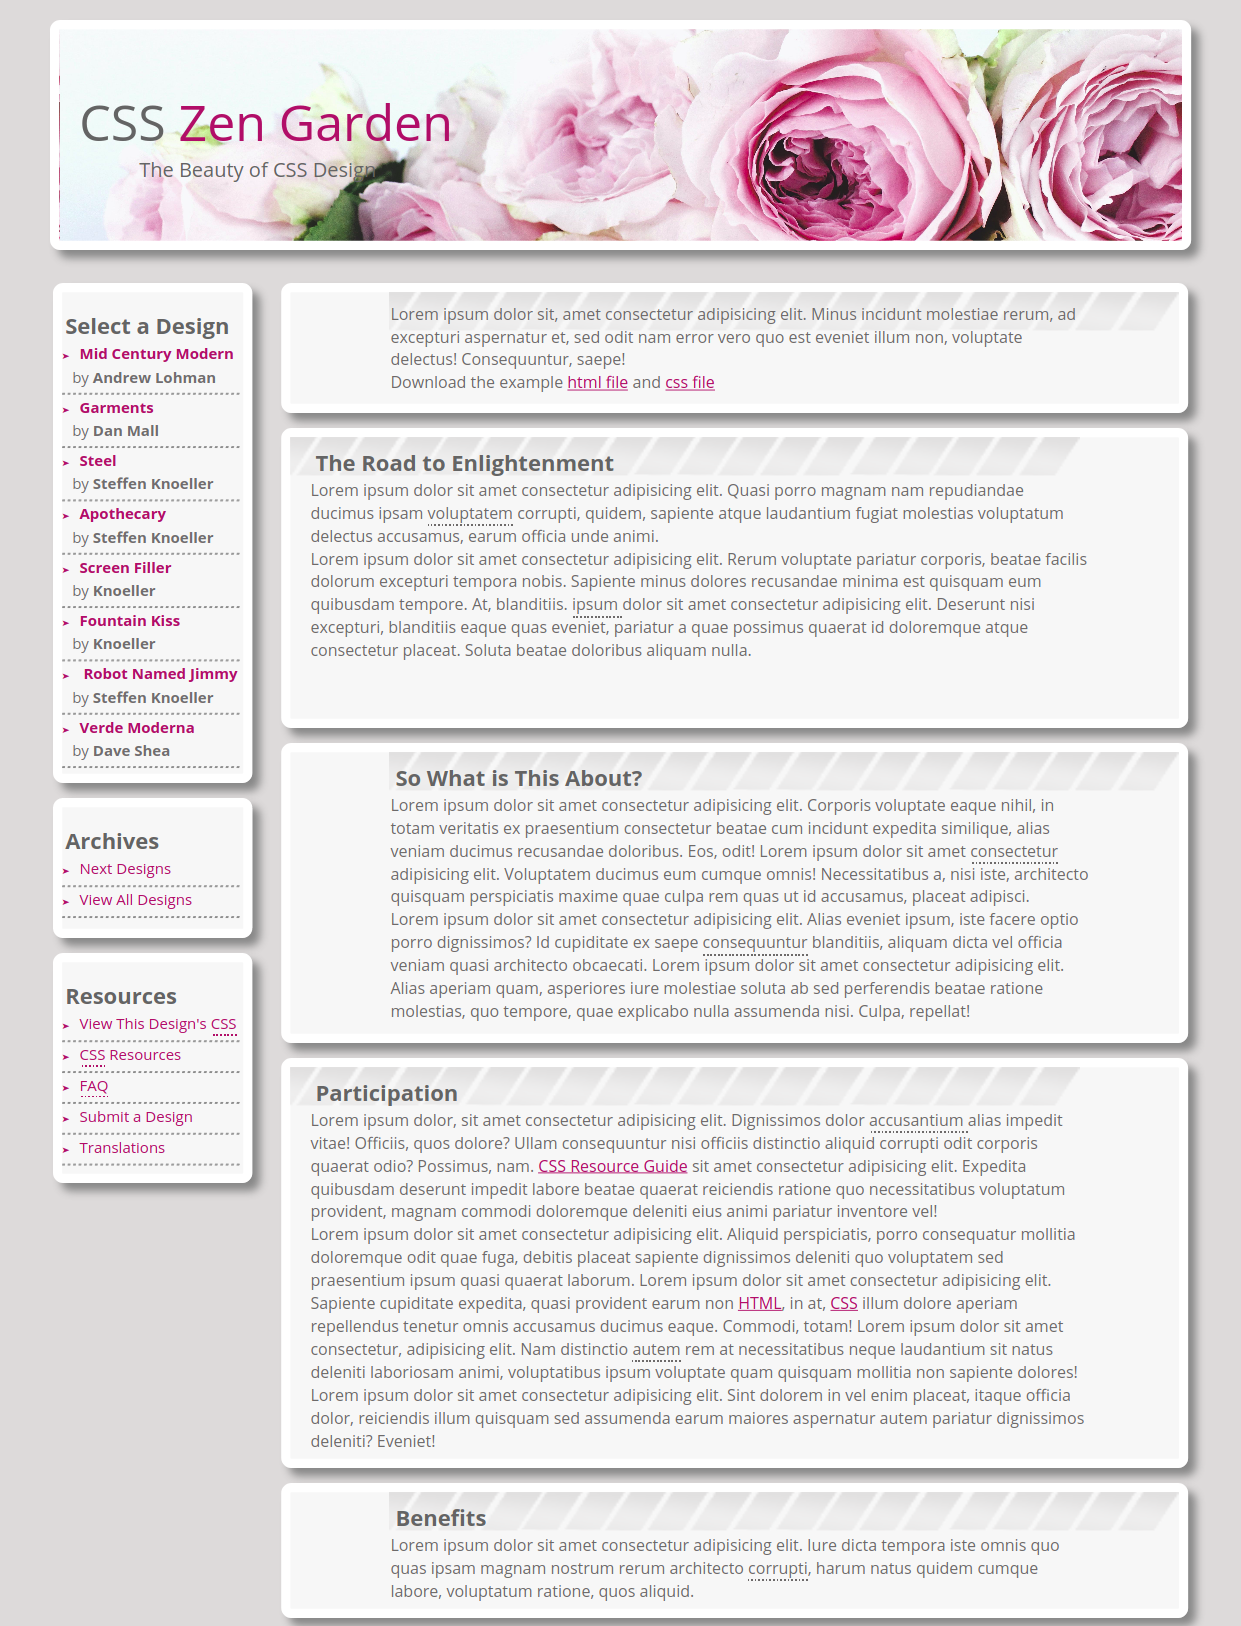
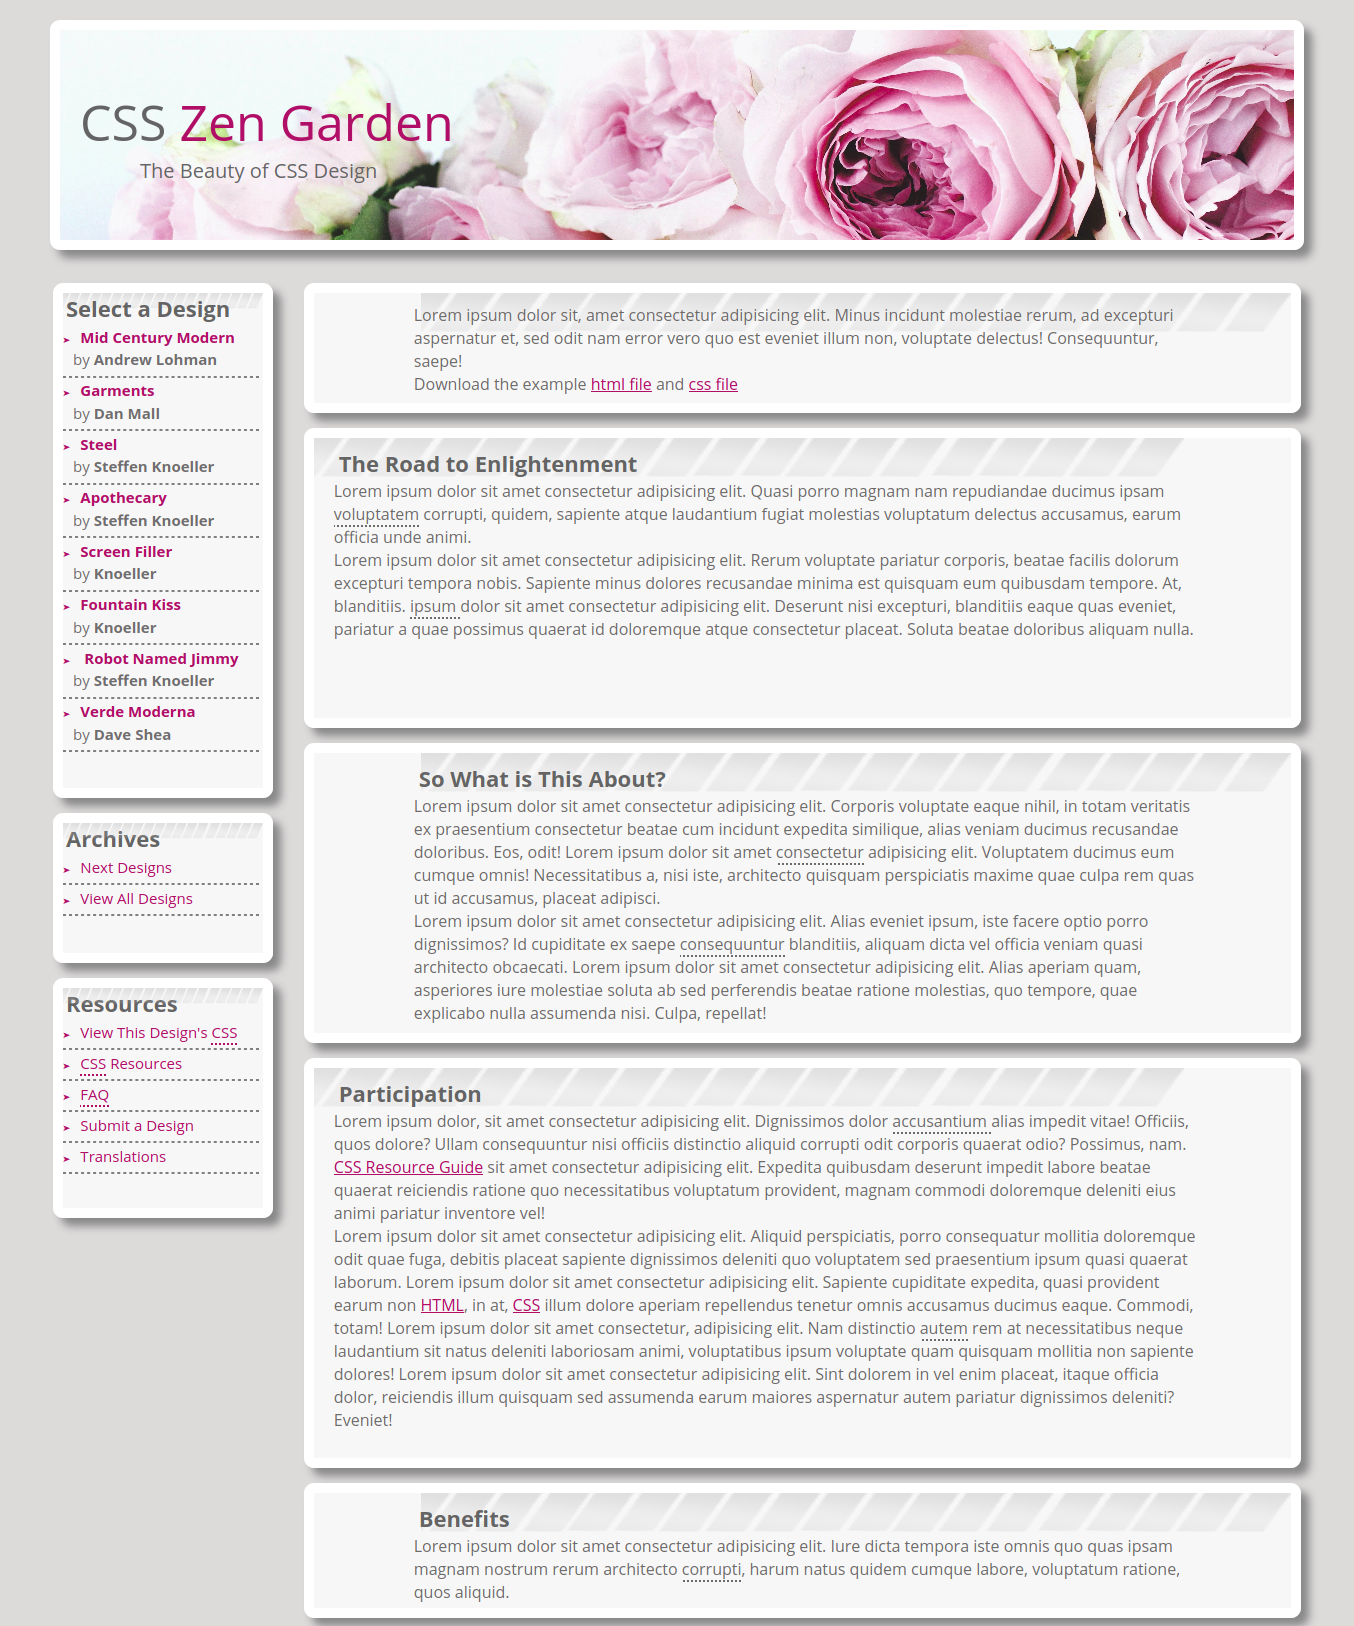
finished

diff --git a/index.html b/index.html
@@ -23,6 +23,8 @@
 
             <div class="aside">
                 <div class="art1">
+                    <img src="images/fondo1.png" alt="lineas">
+                    <div class="texto">
                     <h1>Select a Design</h1>
                     <dl>
                         <dt><a><strong>Mid Century Modern</strong></a></dt>
@@ -50,33 +52,39 @@
                             <dd>by <strong>Dave Shea</strong></dd>
                             <hr class="linea">
                     </dl>
-
+                </div>
                 </div>
 
                 <div class="art2">
+                    <img src="images/fondo1.png" alt="lineas">
+                    <div class="texto">
                     <h1>Archives</h1>
-                    <dl>
-                        <dt><a>Next Designs</a></dt>
-                            <hr class="linea">
-                        <dt><a>View All Designs</a></dt>
-                            <hr class="linea">
-                    </dl>
+                        <dl>
+                            <dt><a>Next Designs</a></dt>
+                                <hr class="linea">
+                            <dt><a>View All Designs</a></dt>
+                                <hr class="linea">
+                        </dl>
+                    </div>
                 </div>
 
                 <div class="art3">
-                    <h1>Resources</h1>
-                    <dl>
-                        <dt><a>View This Design's <span id="imp">CSS</span></a></dt>
-                            <hr class="linea">
-                        <dt><a><span id="imp">CSS</span> Resources</a></dt>
-                            <hr class="linea">
-                        <dt><a><span id="imp">FAQ</span></a></dt>
-                            <hr class="linea">
-                        <dt><a>Submit a Design</a></dt>
-                            <hr class="linea">
-                        <dt><a>Translations</a></dt>
-                            <hr class="linea">
-                    </dl>
+                    <img src="images/fondo1.png" alt="lineas">
+                    <div class="texto">
+                        <h1>Resources</h1>
+                        <dl>
+                            <dt><a>View This Design's <span id="imp">CSS</span></a></dt>
+                                <hr class="linea">
+                            <dt><a><span id="imp">CSS</span> Resources</a></dt>
+                                <hr class="linea">
+                            <dt><a><span id="imp">FAQ</span></a></dt>
+                                <hr class="linea">
+                            <dt><a>Submit a Design</a></dt>
+                                <hr class="linea">
+                            <dt><a>Translations</a></dt>
+                                <hr class="linea">
+                        </dl>
+                    </div>
 
                 </div>
             </div>

diff --git a/css/style.css b/css/style.css
@@ -80,12 +80,12 @@ A S I D E
     width: 18%;
     color: #888888; 
     padding: 3px; 
-    position: relative;             
+            
 }
     
 
 .aside .art1 {
-    height: 500px;
+    height: 515px;
     background-color: rgb(247, 247, 247);
     border-radius: 10px;
     box-shadow: 8px 8px 8px #888888;
@@ -93,10 +93,23 @@ A S I D E
     margin-bottom: 15px;
 }
 
+/* IMAGEN ASIDE */
+.art1 .texto {
+    
+    position: relative;
+}
+
+.aside  img,.aside img,.aside img {
+    display: flex;
+    opacity: 0.2;
+    position:absolute;
+    width: 200px;
+    height: 20px;
+    
+}
 
 .art1 h1, .art2 h1, .art3 h1 {
     color: rgb(100, 100, 100);
-    margin-top: 18px;
     font-size: 22px;
     justify-content: center;
     flex-direction: column;
@@ -107,8 +120,6 @@ A S I D E
     color: rgb(177, 14, 104);
     font-size: 15px;
     margin-left: 10px;
-    justify-content: center;
-    flex-direction: column;
     text-align: left;
 }
 
@@ -147,11 +158,12 @@ a #imp {
     text-decoration:none;
     border-bottom-style: dotted;
     border-bottom-width: 2px;
+    
 }
 
 .aside .art2 {
     
-    height: 140px;
+    height: 150px;
     background-color: rgb(247, 247, 247);
     border-radius: 10px;
     box-shadow: 8px 8px 8px #888888;
@@ -160,14 +172,13 @@ a #imp {
 }
 
 .aside .art3 {
-    height: 230px;
+    height: 240px;
     background-color: rgb(247, 247, 247);
     border-radius: 10px;
     box-shadow: 8px 8px 8px #888888;
     border: solid 10px white;
     margin-bottom: 8px;
 }
-
 
 /*
 
@@ -243,7 +254,7 @@ M A I N
     opacity: 0.2;
     float: right;
     position: relative;
-    width: 790px;
+    width: 870px;
     height: 50px;
 }
 .parrafo1 .texto a {
@@ -265,7 +276,7 @@ M A I N
     opacity: 0.2;
     float: left;
     position: relative;
-    width: 790px;
+    width: 870px;
     height: 50px;
 }
 .parrafo2 h1, .parrafo4 h1{
@@ -300,7 +311,7 @@ M A I N
     opacity: 0.2;
     float: right;
     position: relative;
-    width: 790px;
+    width: 870px;
     height: 50px;
 }
 .parrafo3 h1, .parrafo5 h1{
